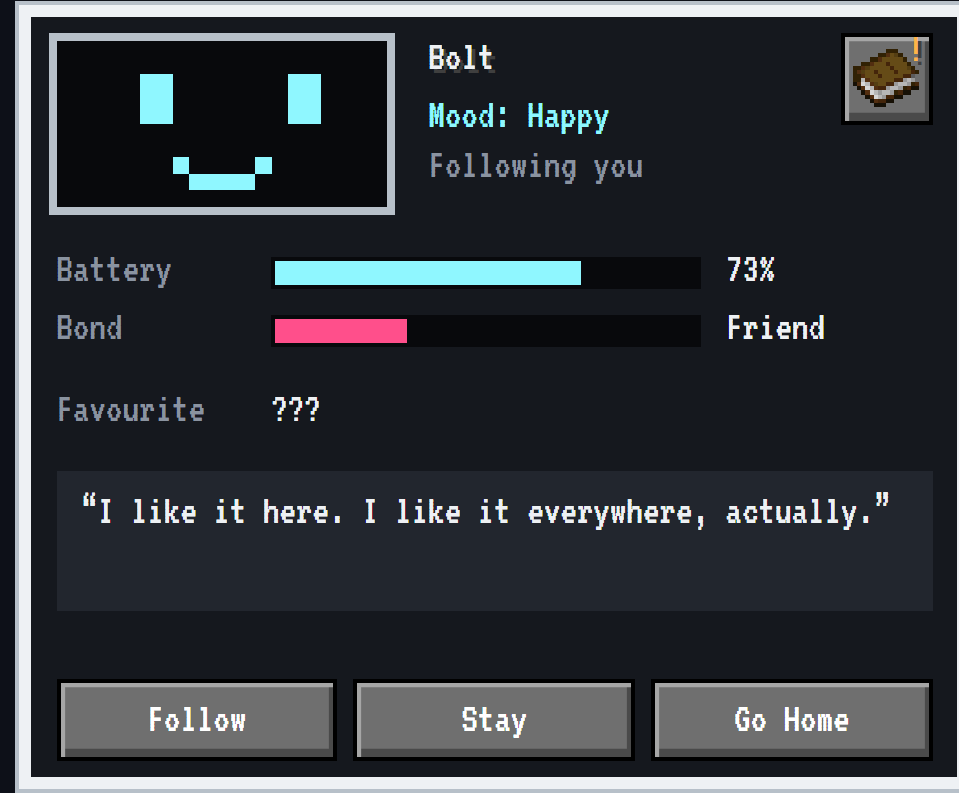
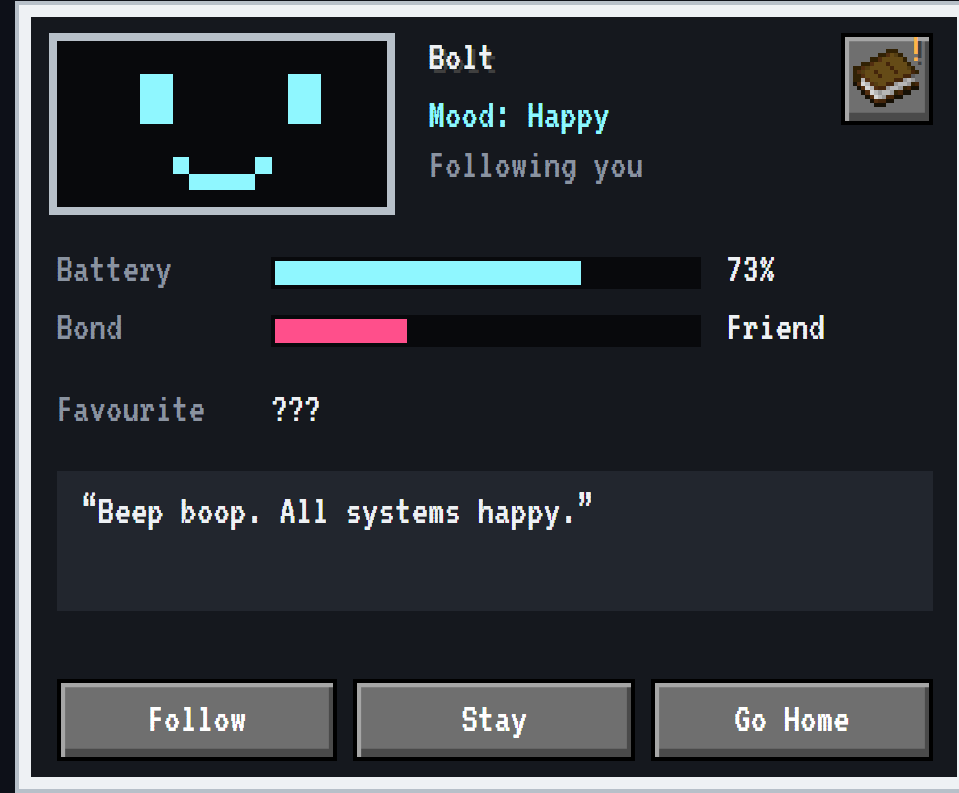
Bleepedia: mobs in the order it met them, then the rest A to Z; mob faces get an id of their own (a pig crashed the book) and a ? when one will not draw
Claude-Session: https://claude.ai/code/session_01KQXgr11Y44rM8FATjPeLox

Changed region(s): [[0.0907, 0.6053, 0.7258, 0.6658], [0.756, 0.6356, 0.9072, 0.6658], [0.9072, 0.6053, 0.9374, 0.6356]]

diff --git a/src/main/java/io/hookdev/bleep/client/BleepediaScreen.java b/src/main/java/io/hookdev/bleep/client/BleepediaScreen.java
@@ -40,6 +40,8 @@ public class BleepediaScreen extends Screen {
 
     private final BleepediaData data;
     private final Map<EntityType<?>, LivingEntity> faces = new HashMap<>();
+    /** Mobs that would not be drawn: a ? for them. */
+    private final java.util.Set<EntityType<?>> broken = new java.util.HashSet<>();
     private final List<List<Row>> pages = new ArrayList<>();
     private final String[] counts = new String[TABS.length];
     private int tab, first;
@@ -81,7 +83,9 @@ public class BleepediaScreen extends Screen {
             Component text = Language.getInstance().has(key) ? Component.translatable(key) : Component.translatable("thought.bleep.unknown_mob");
             mobs.add(new Row(type, null, 0, known ? type.getDescription() : Component.literal("???"), known ? quote(text) : Component.empty(), known, fresh(found)));
         }
-        sort(mobs, r -> r.mob().getDescription().getString());
+        // the ones it met first, in the order it met them; then the ones still to meet, A to Z
+        Comparator<Row> met = Comparator.comparing((Row r) -> data.mobs().getOrDefault(BuiltInRegistries.ENTITY_TYPE.getKey(r.mob()).toString(), Long.MAX_VALUE));
+        mobs.sort(met.thenComparing(r -> r.mob().getDescription().getString()));
         pages.add(mobs);
         counts[0] = data.mobs().size() + " / " + mobs.size();
 
@@ -149,10 +153,6 @@ public class BleepediaScreen extends Screen {
 
     private static Component quote(Component text) {
         return Component.literal("“").append(text).append("”");
-    }
-
-    private static void sort(List<Row> rows, java.util.function.Function<Row, String> by) {
-        rows.sort(Comparator.comparing(by));
     }
 
     /** A colour of its own for each biome, from its name. */
@@ -223,21 +223,27 @@ public class BleepediaScreen extends Screen {
 
     /** The mob itself, drawn so its head fills the box. */
     private void face(GuiGraphicsExtractor g, EntityType<?> type, int x0, int y0, int x1, int y1) {
-        LivingEntity mob = faces.computeIfAbsent(type, t -> {
+        LivingEntity mob = broken.contains(type) ? null : faces.computeIfAbsent(type, t -> {
             try {
-                return minecraft.level != null && t.create(minecraft.level, EntitySpawnReason.LOAD) instanceof LivingEntity living ? living : null;
+                if (minecraft.level == null || !(t.create(minecraft.level, EntitySpawnReason.LOAD) instanceof LivingEntity living)) return null;
+                living.setId(-1000 - faces.size()); // never in the world, but renderers ask for its id: one no real entity has
+                return living;
             } catch (RuntimeException e) {
                 return null;
             }
         });
-        if (mob == null) {
-            g.text(font, "?", x0 + 8, y0 + 6, DIM, false);
-            return;
+        if (mob != null) {
+            try {
+                float head = Math.max(0.45f, Math.min(mob.getBbWidth(), mob.getBbHeight()) * 0.8f);
+                int size = Math.max(4, (int) ((x1 - x0) / head));
+                float offsetY = mob.getEyeHeight() - mob.getBbHeight() / 2;
+                InventoryScreen.renderEntityInInventoryFollowsAngle(g, x0, y0, x1, y1, size, offsetY, -0.35f, 0, mob);
+                return;
+            } catch (RuntimeException e) { // a mob (maybe another mod's) that will not be drawn like this: a ? from now on
+                broken.add(type);
+            }
         }
-        float head = Math.max(0.45f, Math.min(mob.getBbWidth(), mob.getBbHeight()) * 0.8f);
-        int size = Math.max(4, (int) ((x1 - x0) / head));
-        float offsetY = mob.getEyeHeight() - mob.getBbHeight() / 2;
-        InventoryScreen.renderEntityInInventoryFollowsAngle(g, x0, y0, x1, y1, size, offsetY, -0.35f, 0, mob);
+        g.text(font, "?", x0 + 8, y0 + 6, DIM, false);
     }
 
     @Override
